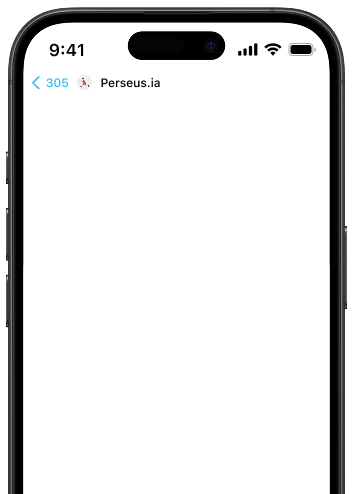
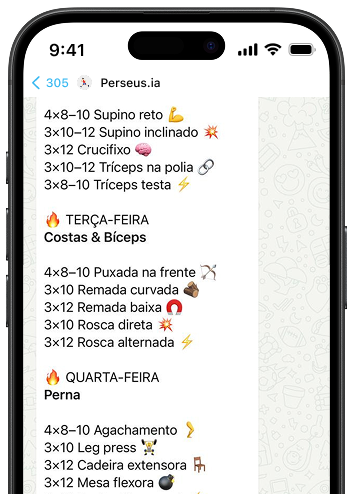
IOS Emojis + Iphone Screen

diff --git a/src/main.jsx b/src/main.jsx
@@ -4,7 +4,7 @@ import Particles, { initParticlesEngine } from "@tsparticles/react";
 import { loadFull } from "tsparticles";
 import './index.css'
 import './header.css'
-import './mainText.css'
+import './mainContent.css'
 
 
 
@@ -49,8 +49,10 @@ function Assinar(){
 
 function Iphone(){
   return(
+    <div className = "baseIphone"> 
     <div className = "iphone"> 
       <img src="iphone.png" />
+    </div>
     </div>
   )
 }
@@ -76,15 +78,45 @@ function EmojiParticles() {
           opacity: { value: 0.5 },
           size: { value: { min: 8, max: 16 } },
           shape: {
-          type: "text",
+          type: "image",
           options: {
-            text: {
-              value: ["💪", "🔥", "🥵", "🏃♂", "🏋♂", "🍖", "🤸♀", "⚡"],
-              font: "Verdana",
-              style: "",
-              weight: "400",
-              fill: true
-            }
+            image: [
+              {
+                src: "/emojis/fire.png",
+                width: 64,
+                height: 64,
+              },
+              {
+                src: "/emojis/biceps.png",
+                width: 64,
+                height: 64,
+              },
+              {
+                src: "/emojis/cambalhota.png",
+                width: 64,
+                height: 64,
+              },
+              {
+                src: "/emojis/cansado.png",
+                width: 64,
+                height: 64,
+              },
+              {
+                src: "/emojis/carne.png",
+                width: 64,
+                height: 64,
+              },
+              {
+                src: "/emojis/peso.png",
+                width: 64,
+                height: 64,
+              },
+              {
+                src: "/emojis/correndo.png",
+                width: 64,
+                height: 64,
+              }                                                             
+            ]
           }
         }
         }
@@ -97,10 +129,12 @@ function App(){
   return(
     <>
     <Topheader/>
+    <div>
     <EmojiParticles />
     <MainText />
     <Assinar />
     <Iphone />
+    </div>
     </>
   )
 }

diff --git a/src/mainContent.css b/src/mainContent.css
@@ -33,10 +33,18 @@
     padding-bottom: 20px;
 }
 
+.baseIphone{
+    position: relative;
+}
+
 .iphone{
-    display: flex;
-    justify-content: center;
-    padding-top: 50px;
+    position: absolute;
+    padding-top: 5%;
+    left: 51%;
+    transform: translateX(-50%);
+    max-width: 380px; /* ajuste conforme necessário */
+    width: 100%;
+
 }
 
 /* Responsivo simples */

diff --git a/src/index.css b/src/index.css
@@ -11,6 +11,7 @@
   color-scheme: light dark;
   color: rgba(255, 255, 255, 0.87);
   background-color: #ebebeb;
+  overflow: hidden;
 }
 
 
